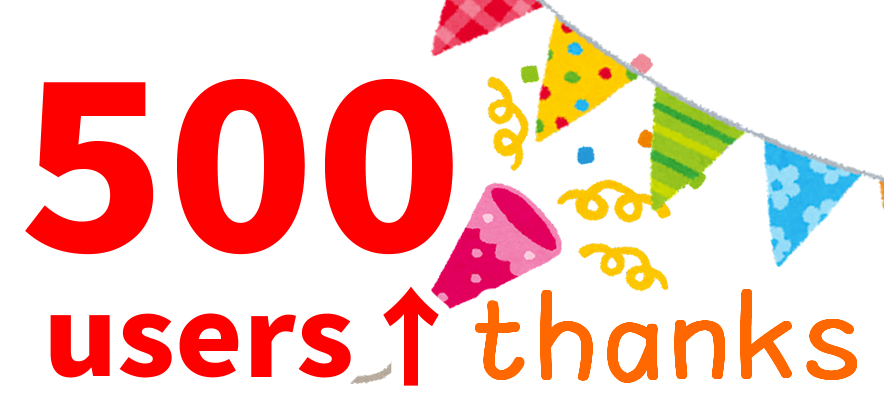
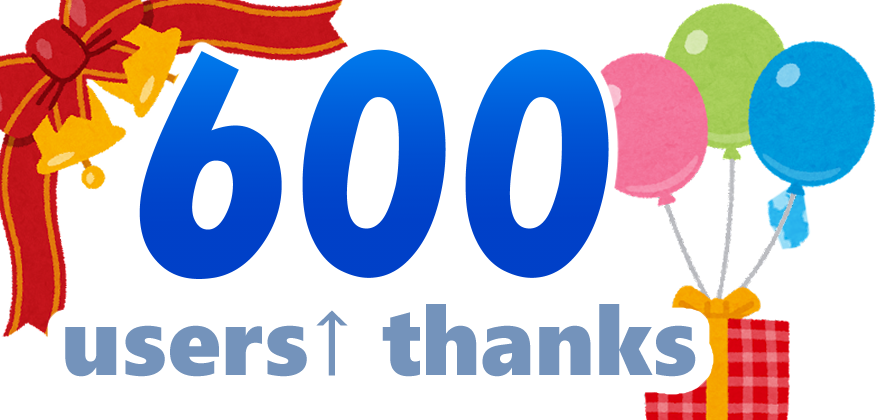
画像リンクをraw git にする

diff --git a/docs/index.html b/docs/index.html
@@ -295,6 +295,7 @@
                 <div class="article-detail-right">
                     <h2>更新履歴</h2>
                     <ul>
+                        <li>(2022/09/24)：微調整</li>
                         <li>(2022/08/18)：UI調整</li>
                         <li>(2022/08/04)：ニコニコ動画に対応、その他画面整理、アンケートの設置</li>
                         <li>(2022/04/26)：Netflixのシーズン情報も表示するように修正</li>

diff --git a/src/adjustimer.html b/src/adjustimer.html
@@ -93,8 +93,8 @@
 </head>
 <body>
     <h1><img src="./img/icons/icon48.png">AdjusTimer(アジャスタイマー)</h1>
-    <h2>最終更新:2022/08/18(Ver. 1.13)</h2>
-    <img class="anniversary-img" src="./img/users_thanks.png">
+    <h2>最終更新:2022/09/24(Ver. 1.14)</h2>
+    <img class="anniversary-img" src="https://raw.githubusercontent.com/patioglass/adjustimer/main/src/img/users_thanks.png">
     <br>
     <br>
     <br>
